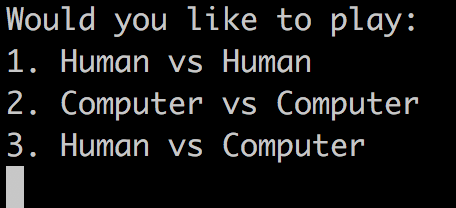
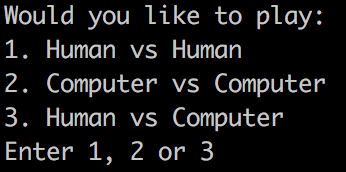
Fix: images in README.md

diff --git a/lib/message.rb b/lib/message.rb
@@ -17,15 +17,15 @@ class Message
   end
 
   def game_mode
-    "Would you like to play:\n1. Human vs Human\n2. Computer vs Computer\n3. Human vs Computer"
+    "Would you like to play:\n1. Human vs Human\n2. Computer vs Computer\n3. Human vs Computer\nEnter 1, 2 or 3"
   end
 
   def choose_first_player(first_type, second_type, first_mark, second_mark)
-    "Which player would like to play first:\n1.#{first_type} with mark #{first_mark} \n2.#{second_type} with mark #{second_mark}"
+    "Which player would like to play first:\n1.#{first_type} with mark #{first_mark} \n2.#{second_type} with mark #{second_mark}\nEnter 1 or 2"
   end
 
   def choose_mark(player_type)
-    "Please choose a mark that is one character long for: #{player_type}"
+    "Please choose and enter a mark that is one character long for: #{player_type}"
   end
 
   def draw
